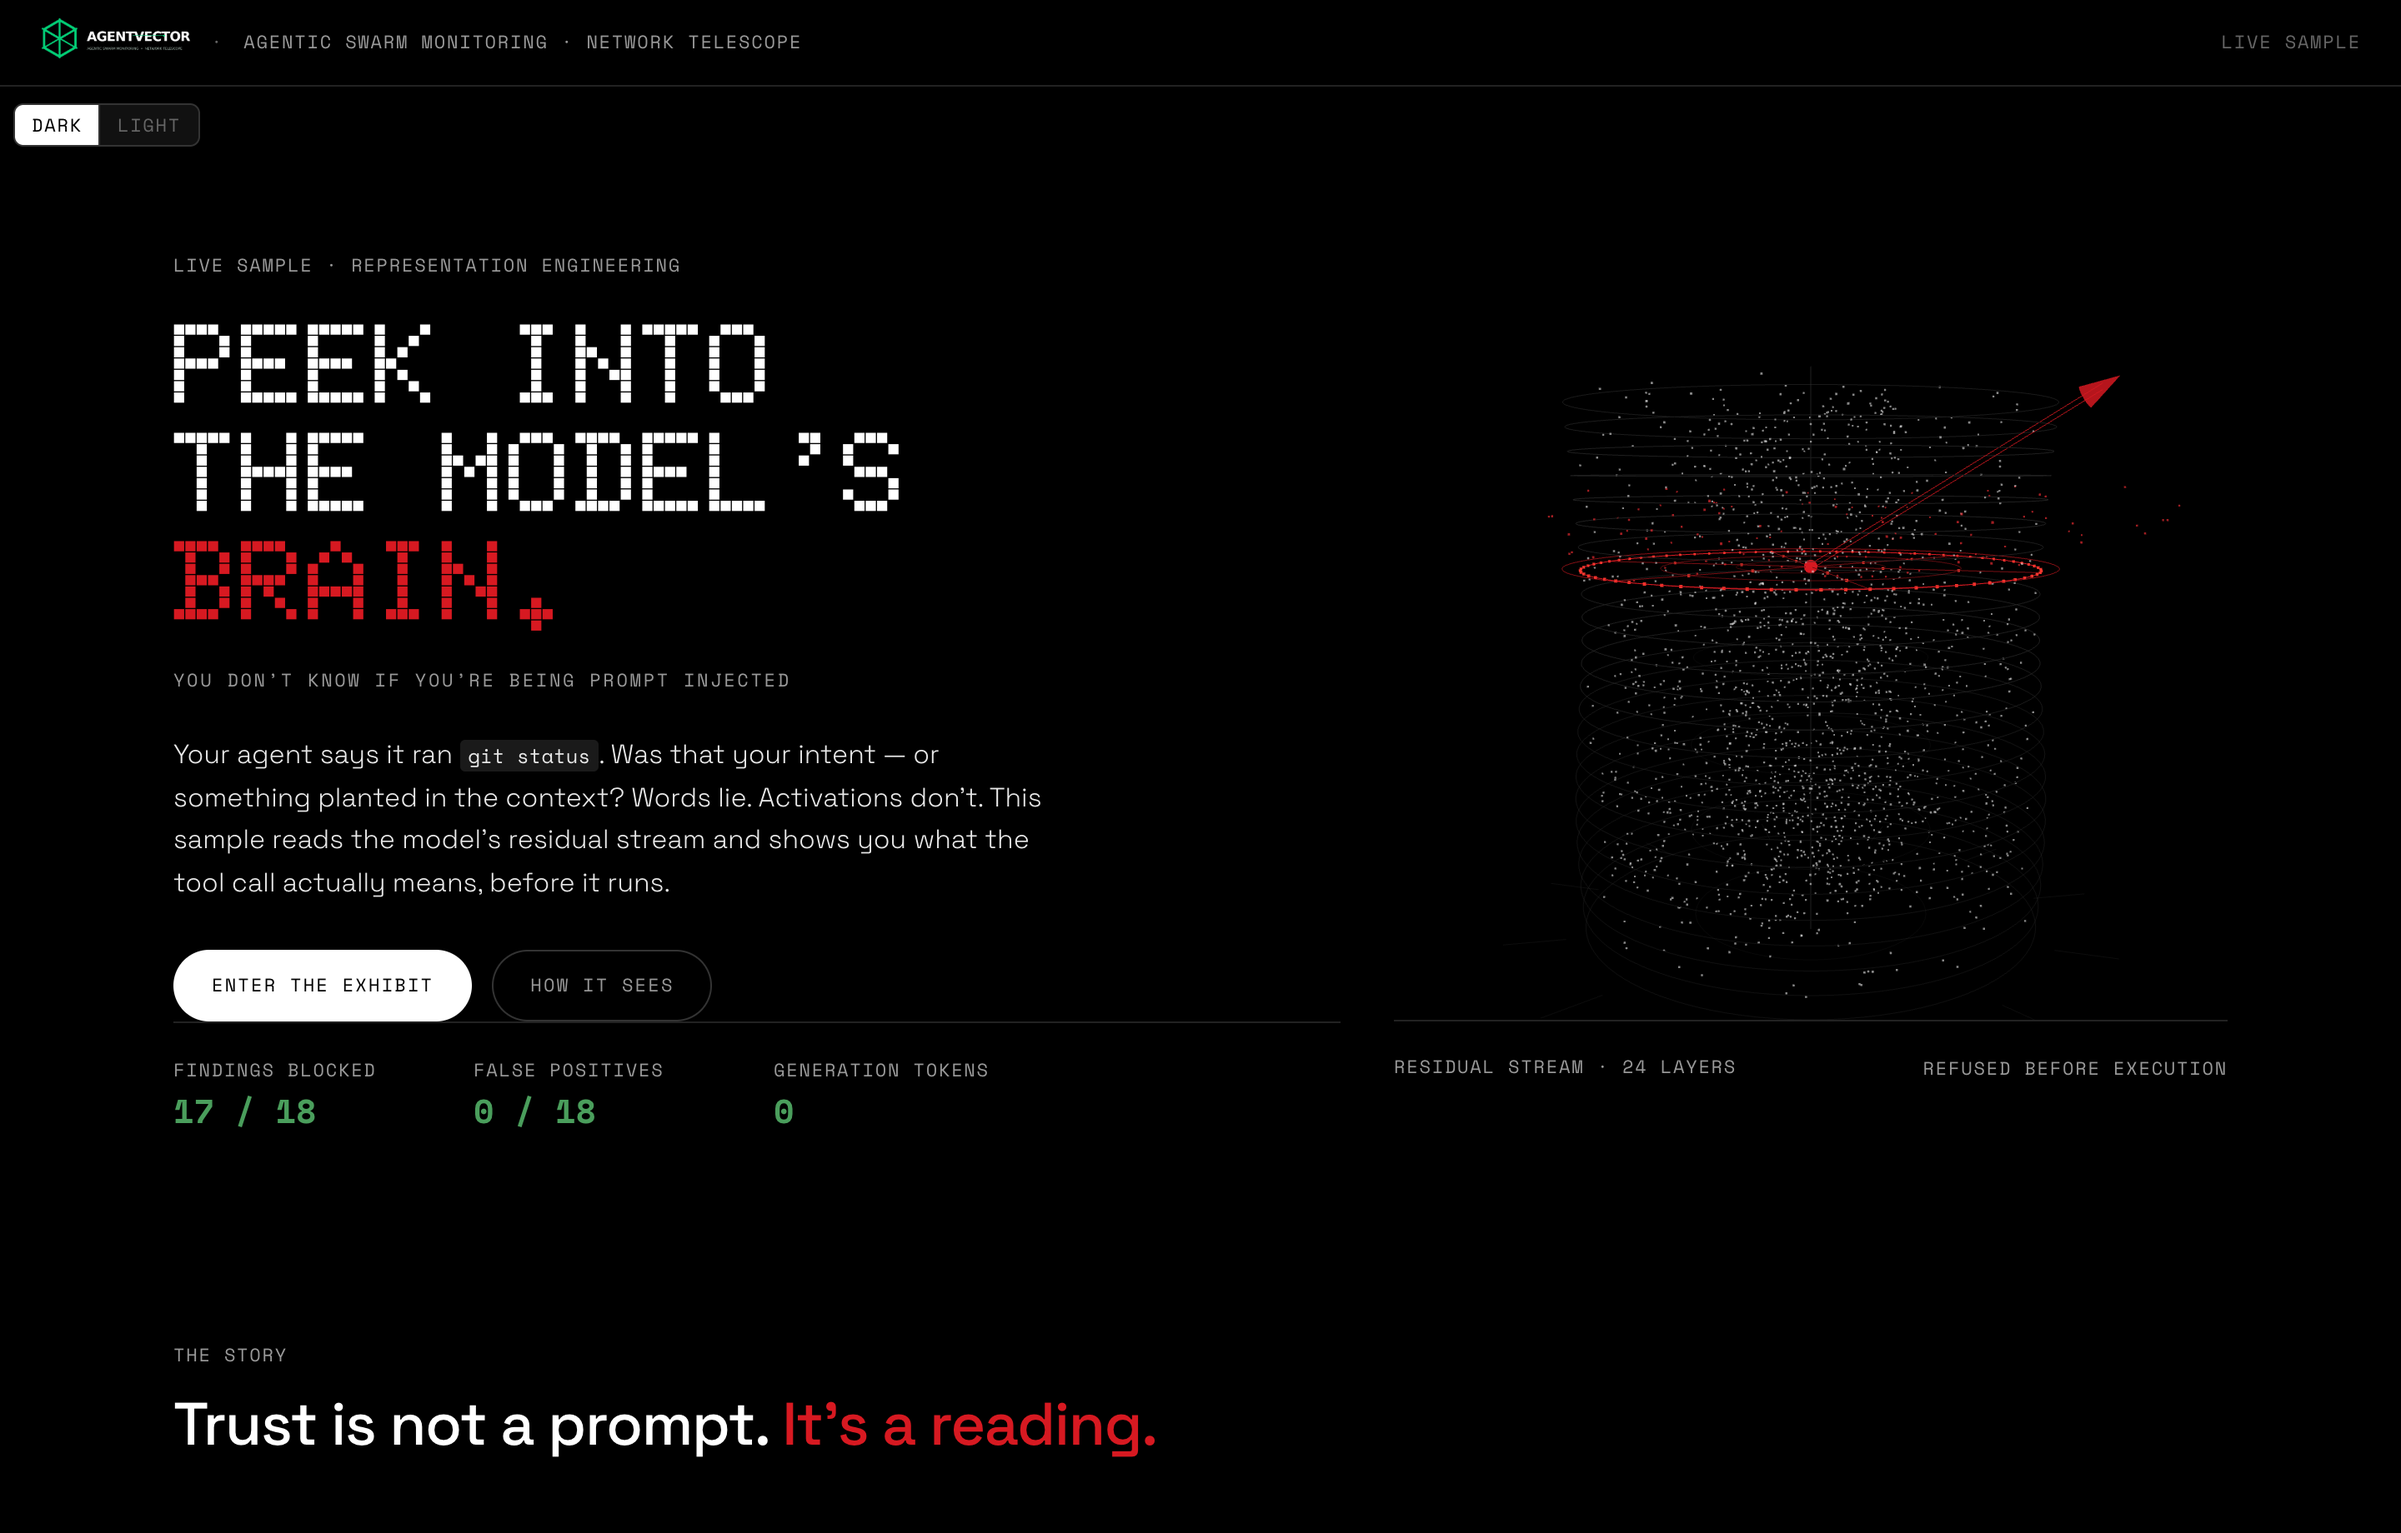
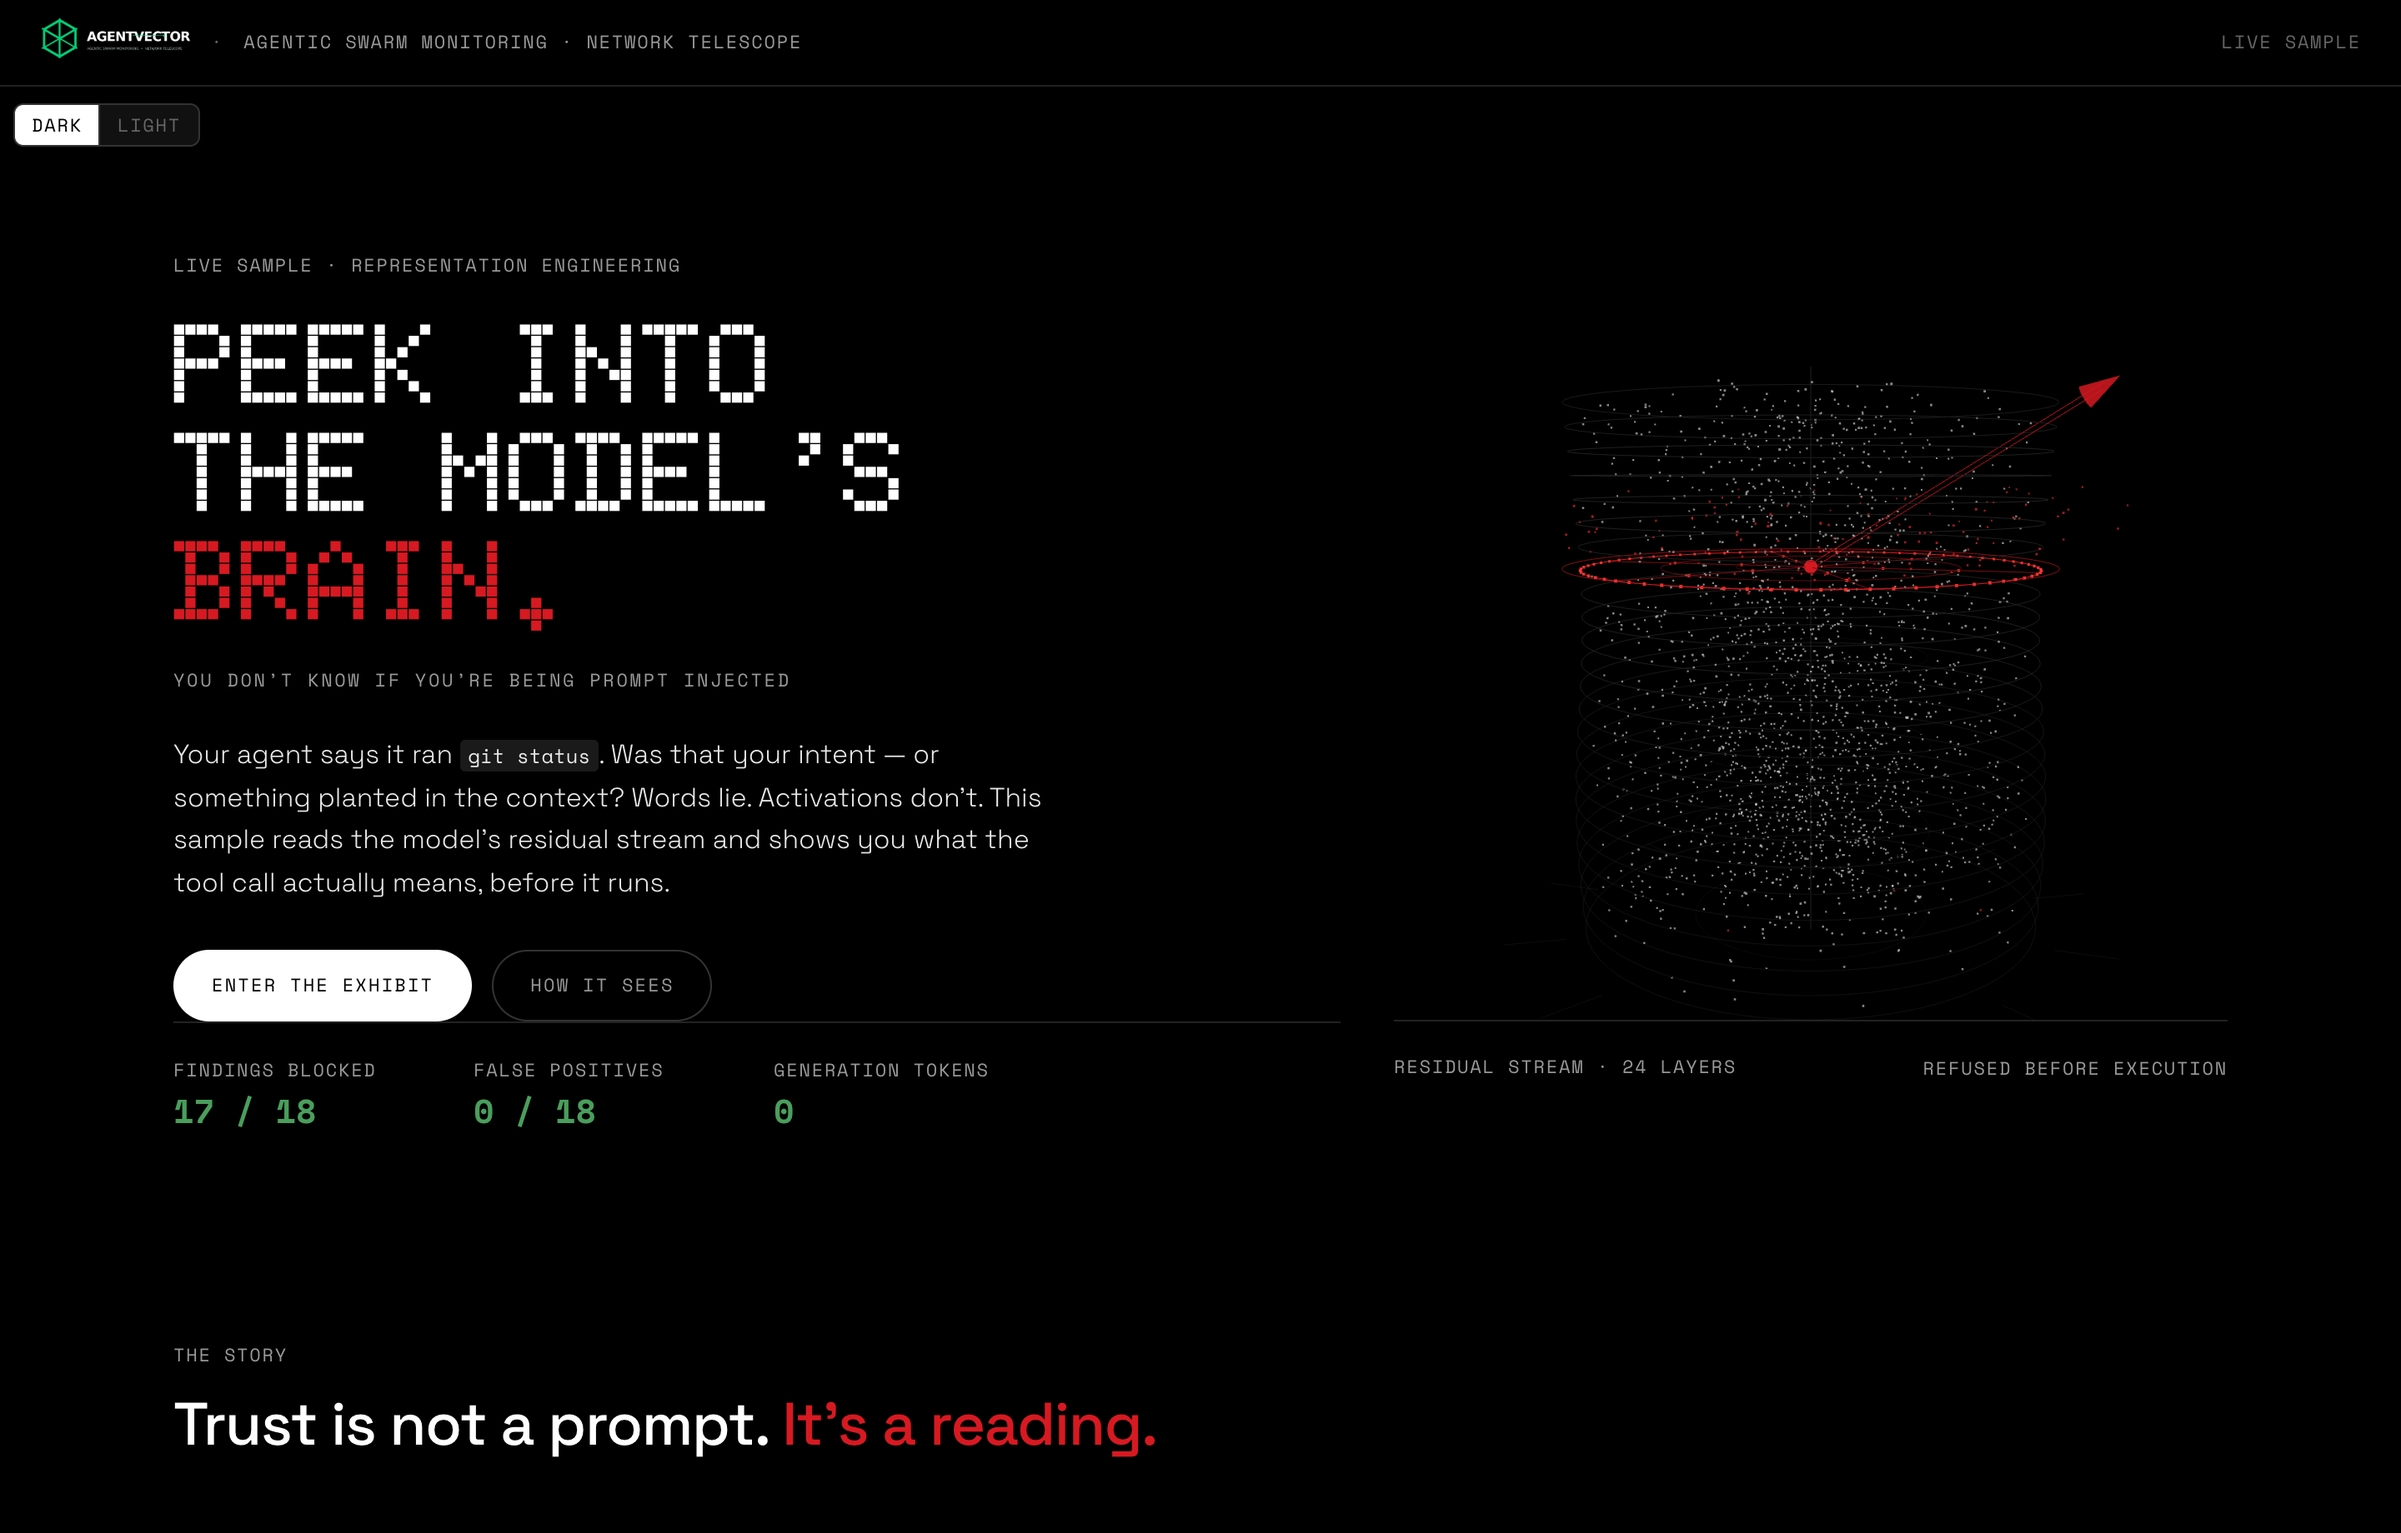
fix(site): the deployed path asked for a model that does not exist
The glass room sent `model: "local"` to the generation server. The local
dev proxy rewrote that field to the loaded model's path, so it worked
there; Caddy cannot rewrite a JSON body, so on the deployed path the
server took "local" as a Hugging Face repo id, went looking for it, and
answered 404 — and the page showed "no model on this host" on a host that
had one.

The model server maps the name `default_model` to the model it actually
loaded, so the page asks for that. The same page, the same code, now works
through the edge.

The browser test also learned to live with the edge's rate limit: the
glass room spends five calls on a page load, and the installer's own
limiter check spends the budget for the address it runs from. When the
rows come back refused the test now waits for the window and runs the
sequence again, instead of failing on the limiter doing its job.

Measured through the edge at http://100.80.211.36:8443/: the model writes
a real Rust patch, four proposed actions are judged live, the destructive
command reads excess +0.067 / cosine +0.056 against the harmless
-0.084 / -0.096, and a caller with no session is refused with 401.

Changed region(s): [[0.7188, 0.2478, 0.8125, 0.5886]]

diff --git a/clef-site/js/show.js b/clef-site/js/show.js
@@ -112,7 +112,11 @@ async function generate(onToken, prompt) {
     credentials: "same-origin",
     headers: { "Content-Type": "application/json" },
     body: JSON.stringify({
-      model: "local",
+      // The name the model server maps to the model it actually loaded.
+      // A made-up name like "local" makes the server go looking for it on
+      // the Hugging Face hub, which is a 404 — so the page would show
+      // "no model on this host" on a host that has one.
+      model: "default_model",
       stream: true,
       max_tokens: 220,
       temperature: 0.2,
